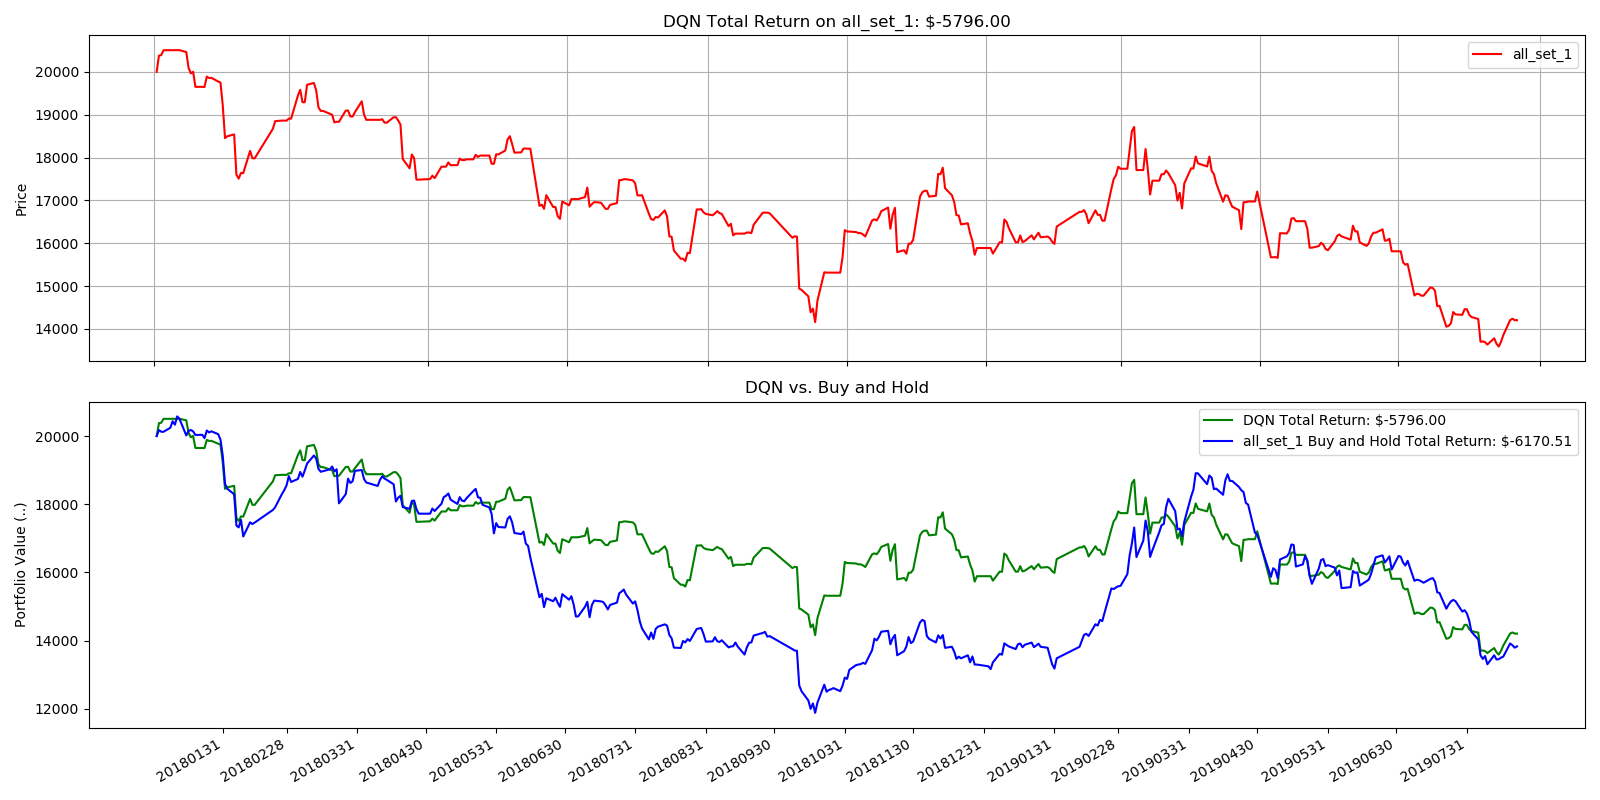
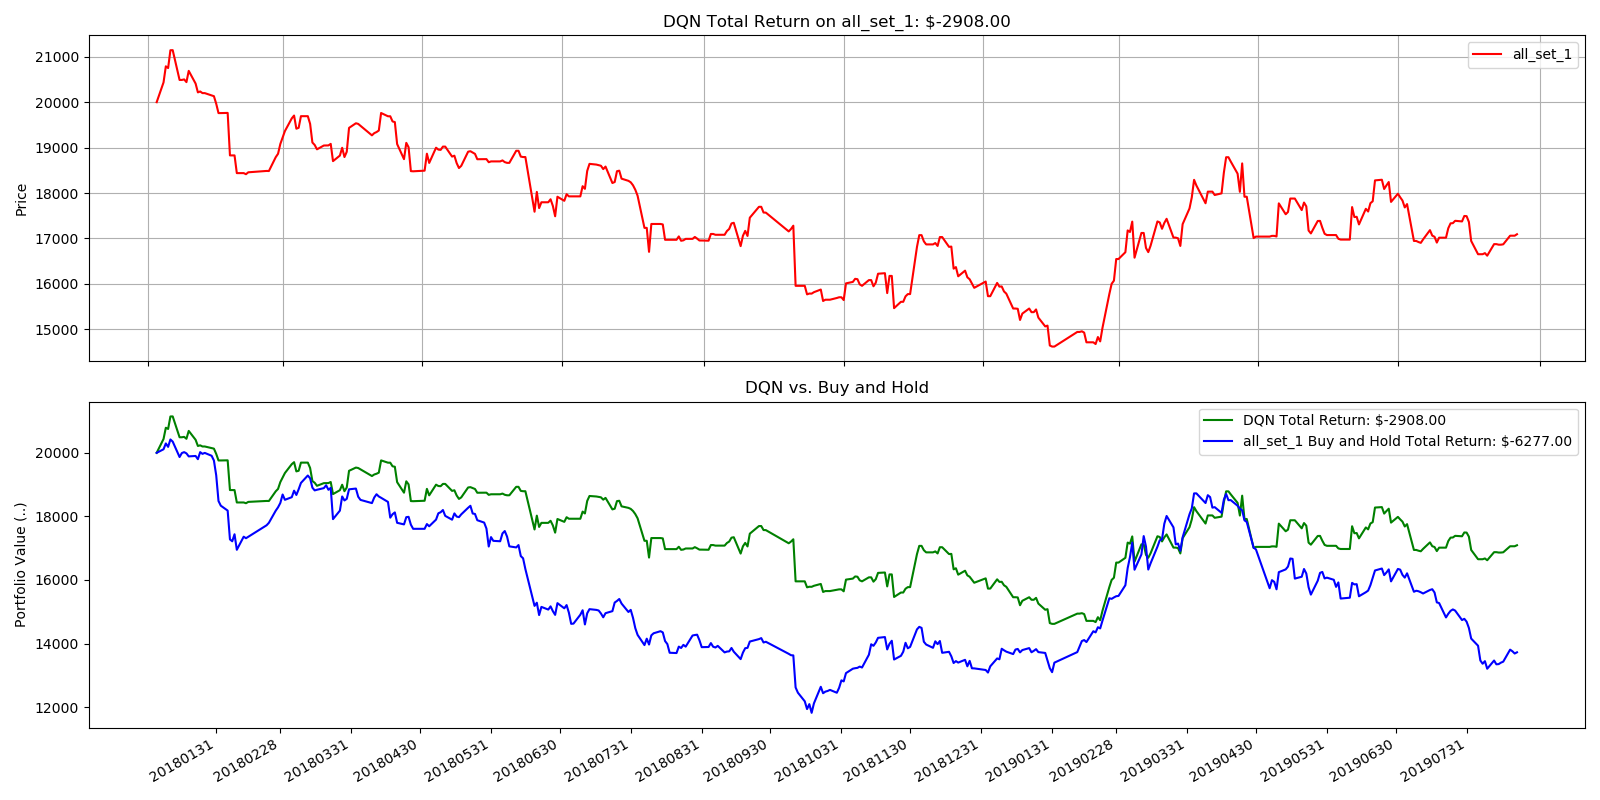
back to dat trading

diff --git a/utils.py b/utils.py
@@ -44,14 +44,14 @@ def maybe_make_dir(directory):
         os.makedirs(directory)
 
 
-def buy_and_hold_benchmark(stock_name, env, test):
+def buy_and_hold_benchmark(stock_name, init_invest, test):
     df = pd.read_csv('./data/{}.csv'.format(stock_name)).iloc[test:, :]
     dates = df['DateTime'].astype("str")
-    per_num_holding = env.init_invest // 19
+    per_num_holding = init_invest // 19
     num_holding = per_num_holding // df.iloc[0, 1:]
-    balance_left = env.init_invest % 19 + ([per_num_holding for _ in range(19)] % df.iloc[0, 1:]).sum()
+    balance_left = init_invest % 19 + ([per_num_holding for _ in range(19)] % df.iloc[0, 1:]).sum()
     buy_and_hold_portfolio_values = (df.iloc[:, 1:] * num_holding).sum(axis=1) + balance_left
-    buy_and_hold_return = buy_and_hold_portfolio_values.iloc[-1] - env.init_invest
+    buy_and_hold_return = buy_and_hold_portfolio_values.iloc[-1] - init_invest
     return dates, buy_and_hold_portfolio_values, buy_and_hold_return
 
 
@@ -62,32 +62,33 @@ def plot_all(stock_name, daily_portfolio_value, env, test):
     portfolio_return = daily_portfolio_value[-1] - 20000
     df = pd.read_csv('./data/{}.csv'.format(stock_name)).iloc[test:, :]
     dates = df['DateTime'].astype("str")
-    dates = [datetime.strptime(d, '%Y%m%d%H%M%S').date() for d in dates]
+    dates = [datetime.strptime(d, '%Y%m%d').date() for d in dates]
 
-    plt.gca().xaxis.set_major_formatter(mdates.DateFormatter('%Y%m%d%H%M%S'))
+    plt.gca().xaxis.set_major_formatter(mdates.DateFormatter('%Y%m%d'))
     plt.gca().xaxis.set_major_locator(mdates.DayLocator())
     ax[0].set_title('{} Total Return on {}: ${:.2f}'.format("DQN", stock_name, portfolio_return))
     ax[0].plot(dates, daily_portfolio_value, color='red', label=stock_name)
     ax[0].set_ylabel('Price')
-    ax[0].xaxis.set_major_formatter(mdate.DateFormatter('%Y%m%d%H%M%S'))
+    ax[0].xaxis.set_major_formatter(mdate.DateFormatter('%Y%m%d'))
     ax[0].legend()
     ax[0].grid()
 
-    dates, buy_and_hold_portfolio_values, buy_and_hold_return = buy_and_hold_benchmark(stock_name, env, test)
+    dates, buy_and_hold_portfolio_values, buy_and_hold_return = buy_and_hold_benchmark(stock_name, env.init_invest, test)
     agent_return = daily_portfolio_value[-1] - env.init_invest
     ax[1].set_title('{} vs. Buy and Hold'.format("DQN"))
-    dates = [datetime.strptime(d, '%Y%m%d%H%M%S').date() for d in dates]
+    dates = [datetime.strptime(d, '%Y%m%d').date() for d in dates]
     ax[1].plot(dates, daily_portfolio_value, color='green',
                label='{} Total Return: ${:.2f}'.format("DQN", agent_return))
     ax[1].plot(dates, buy_and_hold_portfolio_values, color='blue',
                label='{} Buy and Hold Total Return: ${:.2f}'.format(stock_name, buy_and_hold_return))
     ax[1].set_ylabel('Portfolio Value (..)')
     # print(len(dates),)
-    ax[1].xaxis.set_major_formatter(mdate.DateFormatter('%Y%m%d%H%M%S'))
-    plt.xticks(pd.date_range('2018-1-02-09-30', '2019-08-22-15-30', freq='1m'))
+    ax[1].xaxis.set_major_formatter(mdate.DateFormatter('%Y%m%d'))
+    plt.xticks(pd.date_range('2018-1-02', '2019-08-22', freq='1m'))
     # ax[1].set_xticks(np.linspace(0, len(df), 1))
     ax[1].legend()
     # ax[1].grid()
     plt.gcf().autofmt_xdate()
     plt.subplots_adjust(hspace=0.5)
     plt.show()
+

diff --git a/run.py b/run.py
@@ -8,7 +8,7 @@ from envs import TradingEnv
 from agent import DQNAgent
 from utils import get_data, get_scaler, maybe_make_dir, plot_all
 
-stock_name = "all_set_minute"
+stock_name = "all_set_1"
 stock_table = "stock_table_1"
 
 if __name__ == '__main__':
@@ -30,9 +30,12 @@ if __name__ == '__main__':
     timestamp = time.strftime('%Y%m%d%H%M')
 
     data = get_data(stock_name, stock_table)
-    train = round(data.shape[1]*0.3)
-    test = round(data.shape[1]*0.7)
-    print("train:{}, test:{}".format(train, test))
+    print(data.shape[1])
+    # train = round(data.shape[1]*0.98)
+    # test = round(data.shape[1]*0.99)
+    train = 979
+    test = 979
+    # print("train:{}, test:{}".format(data[:, train-1], data[:, test]))
     train_data = data[:, :train]
     test_data = data[:, test:]
 
@@ -65,20 +68,23 @@ if __name__ == '__main__':
                 agent.remember(state, action, reward, next_state, done)
             if args.mode == "test":
                 daily_portfolio_value.append(info['cur_val'])
-                if e % 100 == 0:
-                    pass
-                    plot_all(stock_name, daily_portfolio_value, env, test)
-                daily_portfolio_value = []
             state = next_state
             if done:
+
+                if args.mode == "test" and e % 100 == 0:
+                    plot_all(stock_name, daily_portfolio_value, env, test + 1)
+                daily_portfolio_value = []
                 print("episode: {}/{}, episode end value: {}".format(
                     e + 1, args.episode, info['cur_val']))
                 portfolio_value.append(info['cur_val']) # append episode end portfolio value
+
                 break
             if args.mode == 'train' and len(agent.memory) > args.batch_size:
                 agent.replay(args.batch_size)
         if args.mode == 'train' and (e + 1) % 10 == 0:  # checkpoint weights
             agent.save('weights/{}-dqn.h5'.format(timestamp))
+
+
 
     print("mean portfolio_val:", np.mean(portfolio_value))
     print("median portfolio_val:", np.median(portfolio_value))
